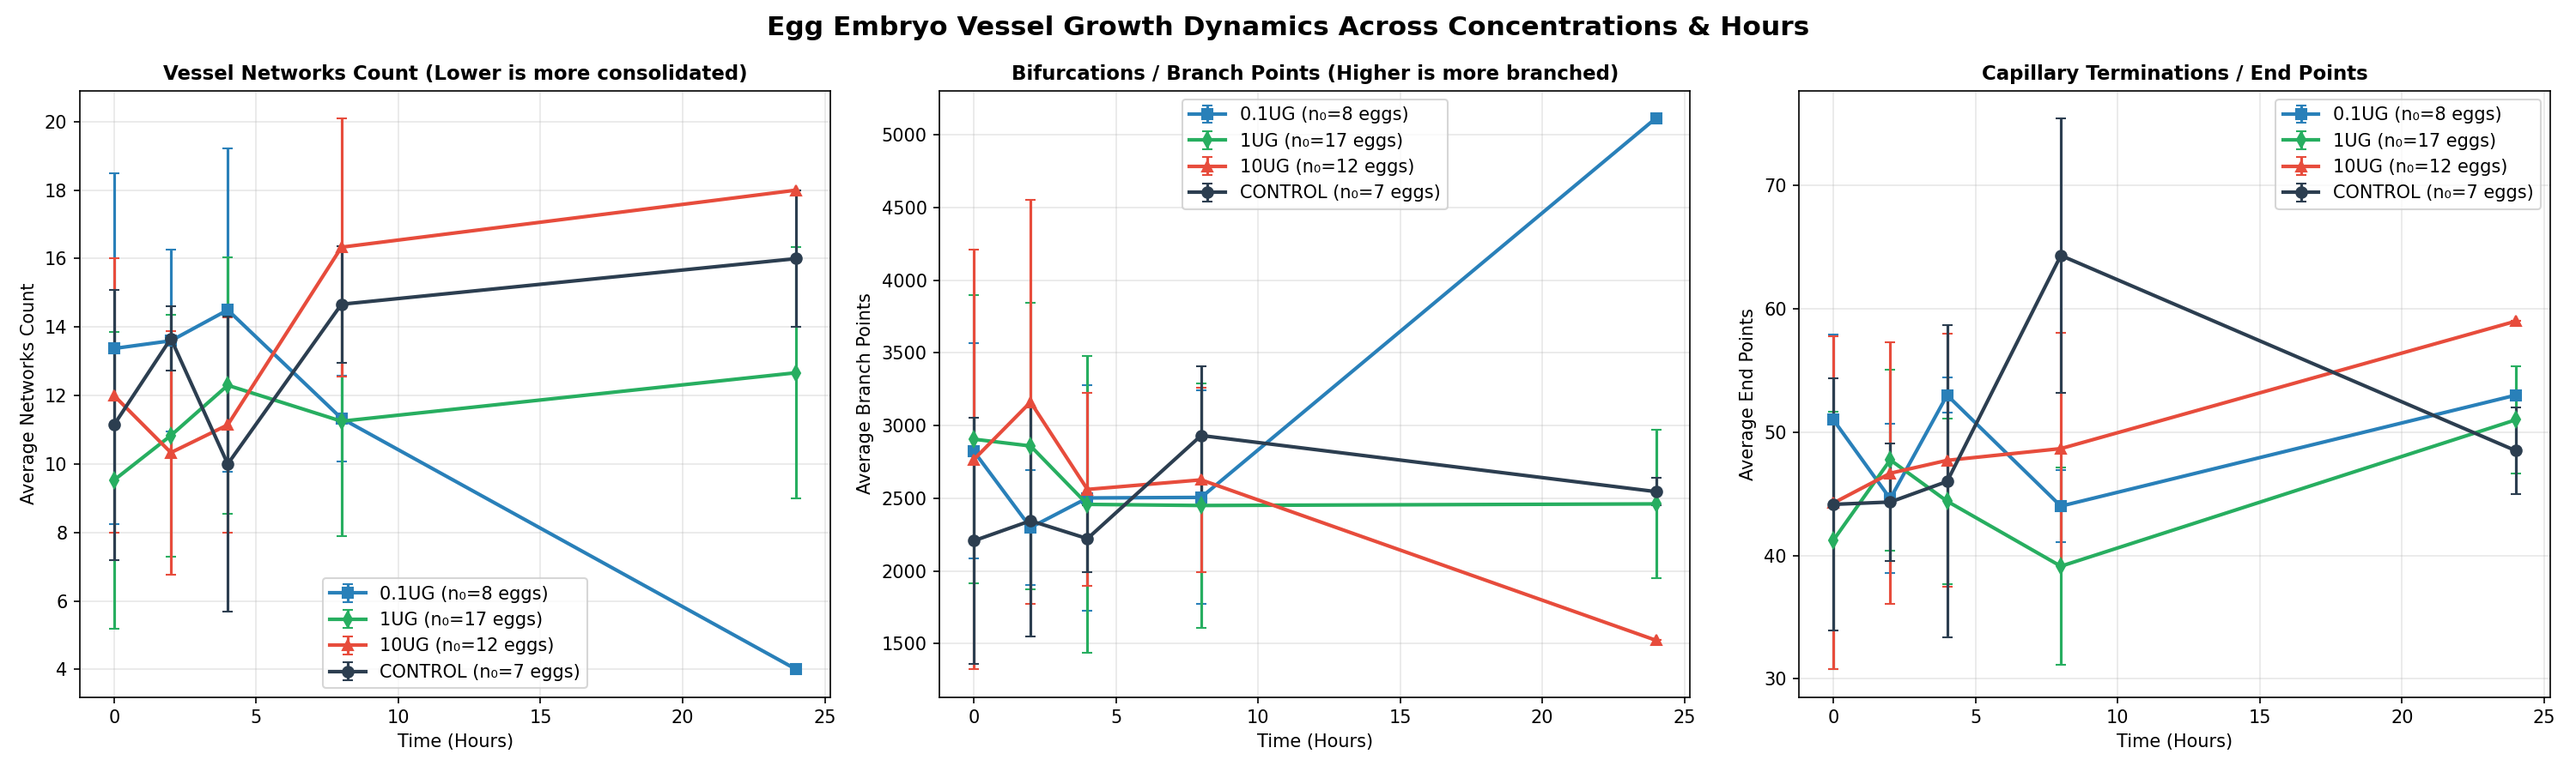
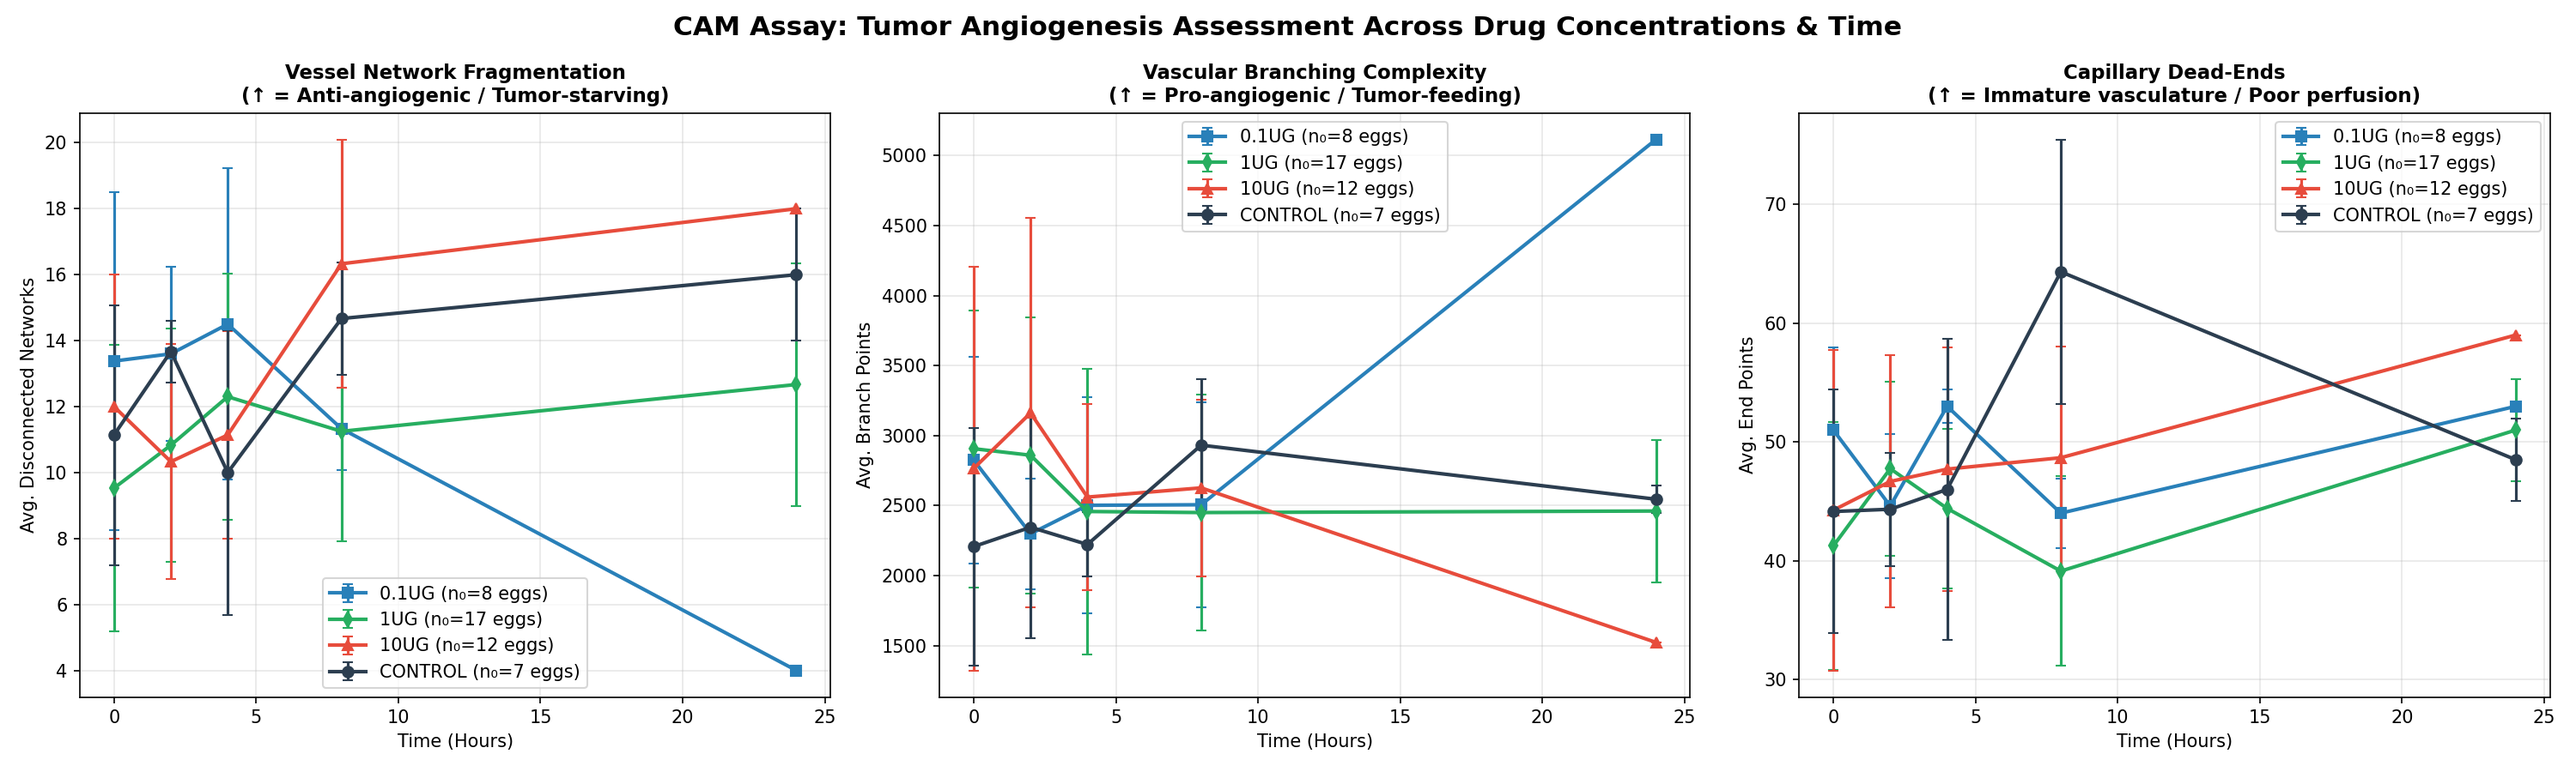
refactor: reframe plot labels through cancer/tumor angiogenesis lens

diff --git a/vessel_growth_analysis.py b/vessel_growth_analysis.py
@@ -442,7 +442,7 @@ def plot_growth_curves(summary_data):
         concs_data[s["concentration"]].append(s)
 
     fig, axes = plt.subplots(1, 3, figsize=(20, 6))
-    fig.suptitle("Egg Embryo Vessel Growth Dynamics Across Concentrations & Hours", fontsize=15, fontweight="bold")
+    fig.suptitle("CAM Assay: Tumor Angiogenesis Assessment Across Drug Concentrations & Time", fontsize=15, fontweight="bold")
 
     colors = {
         "control": "#2c3e50",
@@ -458,11 +458,11 @@ def plot_growth_curves(summary_data):
     }
 
     titles = [
-        "Vessel Networks Count (Lower is more consolidated)",
-        "Bifurcations / Branch Points (Higher is more branched)",
-        "Capillary Terminations / End Points"
+        "Vessel Network Fragmentation\n(↑ = Anti-angiogenic / Tumor-starving)",
+        "Vascular Branching Complexity\n(↑ = Pro-angiogenic / Tumor-feeding)",
+        "Capillary Dead-Ends\n(↑ = Immature vasculature / Poor perfusion)"
     ]
-    ylabels = ["Average Networks Count", "Average Branch Points", "Average End Points"]
+    ylabels = ["Avg. Disconnected Networks", "Avg. Branch Points", "Avg. End Points"]
     keys = ["net", "br", "ep"]
 
     for i, key in enumerate(keys):
@@ -542,7 +542,7 @@ def plot_growth_table(summary_data):
         else:
             cell.set_facecolor(row_colors[row - 1])
                 
-    plt.title("Multi-Concentration Growth Analysis Summary (Egg Embryo Vessel Kinetics)", y=0.98, fontsize=13, fontweight="bold")
+    plt.title("CAM Assay: Vascular Feature Summary Across Drug Concentrations", y=0.98, fontsize=13, fontweight="bold")
     plt.tight_layout()
     
     out_table = os.path.join(OUTPUT_DIR, "vessel_growth_table.png")
